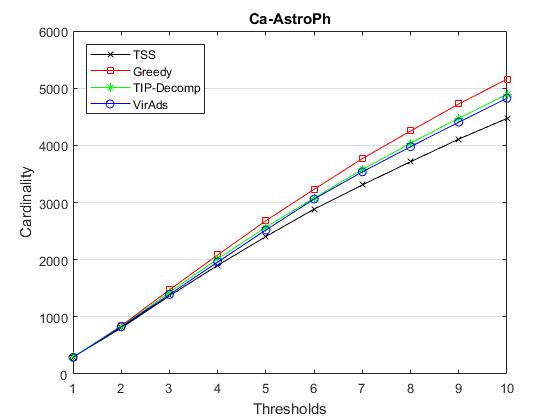
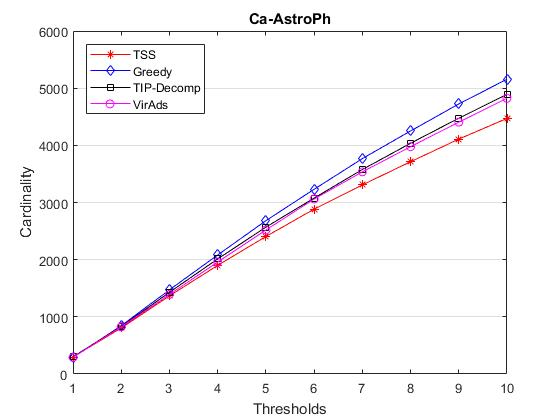
Updated graphs to match color from paper

diff --git a/Working_Paper/results.tex b/Working_Paper/results.tex
@@ -77,6 +77,8 @@ The data shows that the TSS algorithm produces a result that is near the exact s
 
 We apply the TSS algorithm to real-life networks and compare it to the previously developed algorithm and a greedy version of TSS. The threshold of the nodes are set as $t(v)\in(1,2,...,10)$ for each iteration. For the random version of algorithms if more than one node meets the condition of cases we randomly selected a node from the set of nodes that satisfy the condition in each algorithm. The selection of nodes in case 3 of TSS can be randomized. We test if randomness of selection of nodes affect the cardinality of the target set and the runtime of the algorithm.
 
+In this experiment we run each algorithm once for each threshold for the normal version of the algorithm and 5 times for the random version of the algorithm. That makes 10 runs per dataset. For the VirAds algorithm we experiment the amount of $d$ hops needed to output an ideal solution. This is why we run the algorithm 10 times per threshold starting with $d=1$ upto $d=10$. That makes 100 runs per dataset for the VirAds algorithm. In analyzing the data, we plot the cardinality and runtime of the network versus the thresholds that was used in obtaining them. For the data in the random runs, we average the cardinality and time then plot it against the thresholds. We then compare the normal and random amongst each other using a bar plot.
+
 We get our data from real-life networks\cite{datasets1}\cite{datasets2}. The following datasets are used:
 \begin{enumerate}
 	\item BlogCatalog3 (10,312 nodes, 333,983 edges): a social blog directory which manages the bloggers and their blogs. Both the contact network and selected group membership information are included.
@@ -341,3 +343,7 @@ We get our data from real-life networks\cite{datasets1}\cite{datasets2}. The fol
 \end{figure}
 
 From the graphs we can observe that for the majority of our graphs, the TSS algorithm obtains the least cardinality for every thresholds.
+
+The time versus thresholds graphs show that in TSS we obtain fastest result when all the vertices' thresholds is 1. Note that with $t=1$, most of the time we go to case 1($t=0$) of the algorithm just after the first removal of the first node. This implies a fast computation of the equation in case 3($\frac{t(v)}{d(v)(d(v)+1}$). At the end there remains a single node (for some datasets it is more than 1) that has its degree to be less than its threshold, meaning we need to include it to the target set. VirAds seems to be the only algorithm to show that as the threshold increases, so does the time it takes to obtain the target set. The other algorithms seem to show that the time it takes per threshold is somewhat \textit{constant} through out the thresholds.
+
+The bar plots comparing the algorithms shows that the TSS took the longest time in finding the target set. This maybe due to the fact that in our code we update a property of a node every iteration to keep track of the selection of nodes in case 3. In the paper, Cordasco did not report the run times of the experiment, stating that this experiment is very machine and implementation dependent.

diff --git a/Data Analysis/graphTime.m b/Data Analysis/graphTime.m
@@ -19,18 +19,18 @@ elseif length(result)==30
     result=averageResult';
 end
 if i==1
-    plot(threshold,result,'-x','Color','k');
+    plot(threshold,result,'-*','Color','r');
     legend('TSS','Location','northwest');
 elseif i==2
-    plot(threshold,result,'-s','Color','r');
+    plot(threshold,result,'-d','Color','b');
     newLeg={'TSS','Greedy'};
     legend(newLeg,'Location','northwest');
 elseif i==3
-    plot(threshold,result,'-*','Color','g');
+    plot(threshold,result,'-s','Color','k');
     newLeg={'TSS','Greedy','TIP-Decomp'};
     legend(newLeg,'Location','northwest');
 elseif i==4
-    plot(threshold,result,'-o','Color','b');
+    plot(threshold,result,'-o','Color','m');
     newLeg={'TSS','Greedy','TIP-Decomp','VirAds'};
     legend(newLeg,'Location','northwest');
 end
@@ -39,5 +39,5 @@ ax.YGrid = 'on';
 ax.GridLineStyle = '-';
 title(titleName);
 xlabel("Thresholds");
-ylabel("Cardinality");
+ylabel("Time (Seconds)");
 hold all;

diff --git a/Data Analysis/readData.m b/Data Analysis/readData.m
@@ -27,18 +27,18 @@ elseif length(result)==40
     result=averageResult';
 end
 if i==1
-    plot(threshold,result,'-x','Color','k');
+    plot(threshold,result,'-*','Color','r');
     legend('TSS','Location','northwest');
 elseif i==2
-    plot(threshold,result,'-s','Color','r');
+    plot(threshold,result,'-d','Color','b');
     newLeg={'TSS','Greedy'};
     legend(newLeg,'Location','northwest');
 elseif i==3
-    plot(threshold,result,'-*','Color','g');
+    plot(threshold,result,'-s','Color','k');
     newLeg={'TSS','Greedy','TIP-Decomp'};
     legend(newLeg,'Location','northwest');
 elseif i==4
-    plot(threshold,result,'-o','Color','b');
+    plot(threshold,result,'-o','Color','m');
     newLeg={'TSS','Greedy','TIP-Decomp','VirAds'};
     legend(newLeg,'Location','northwest');
 end
